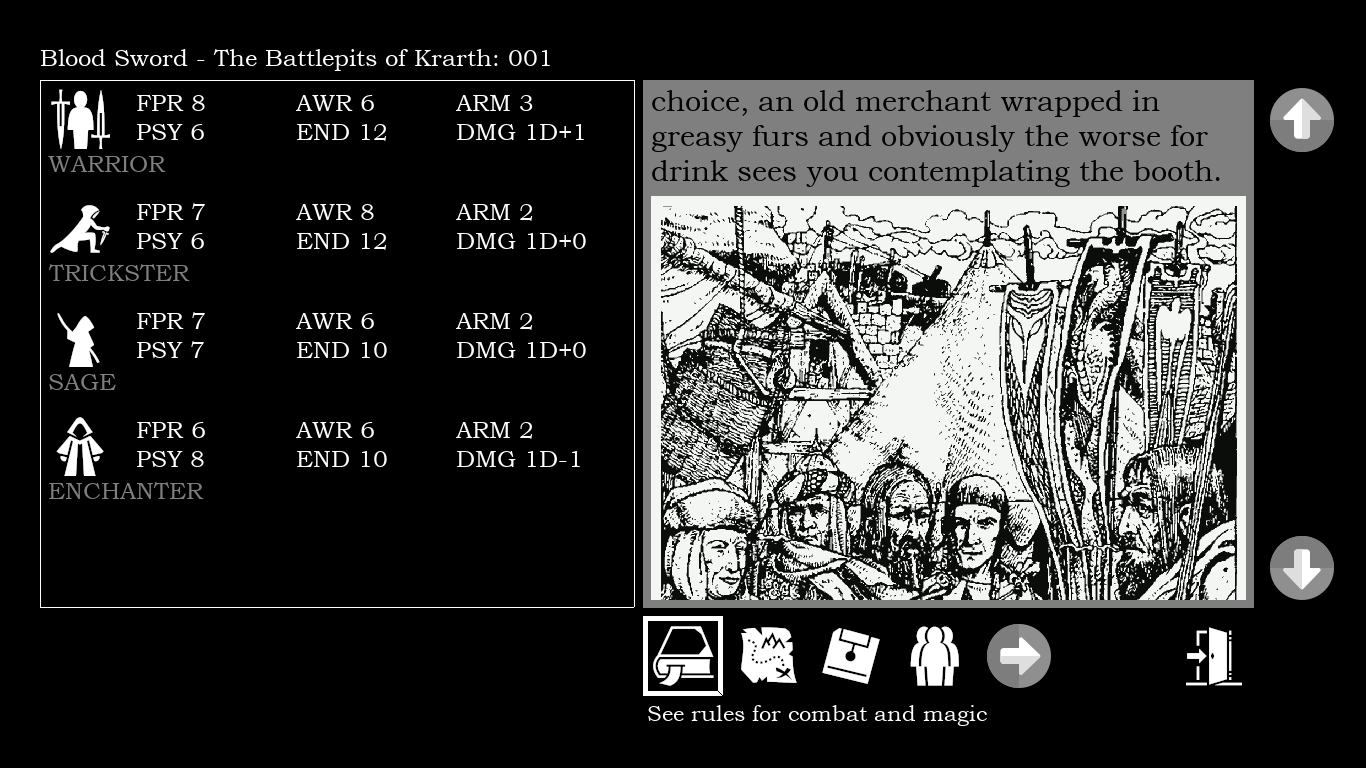
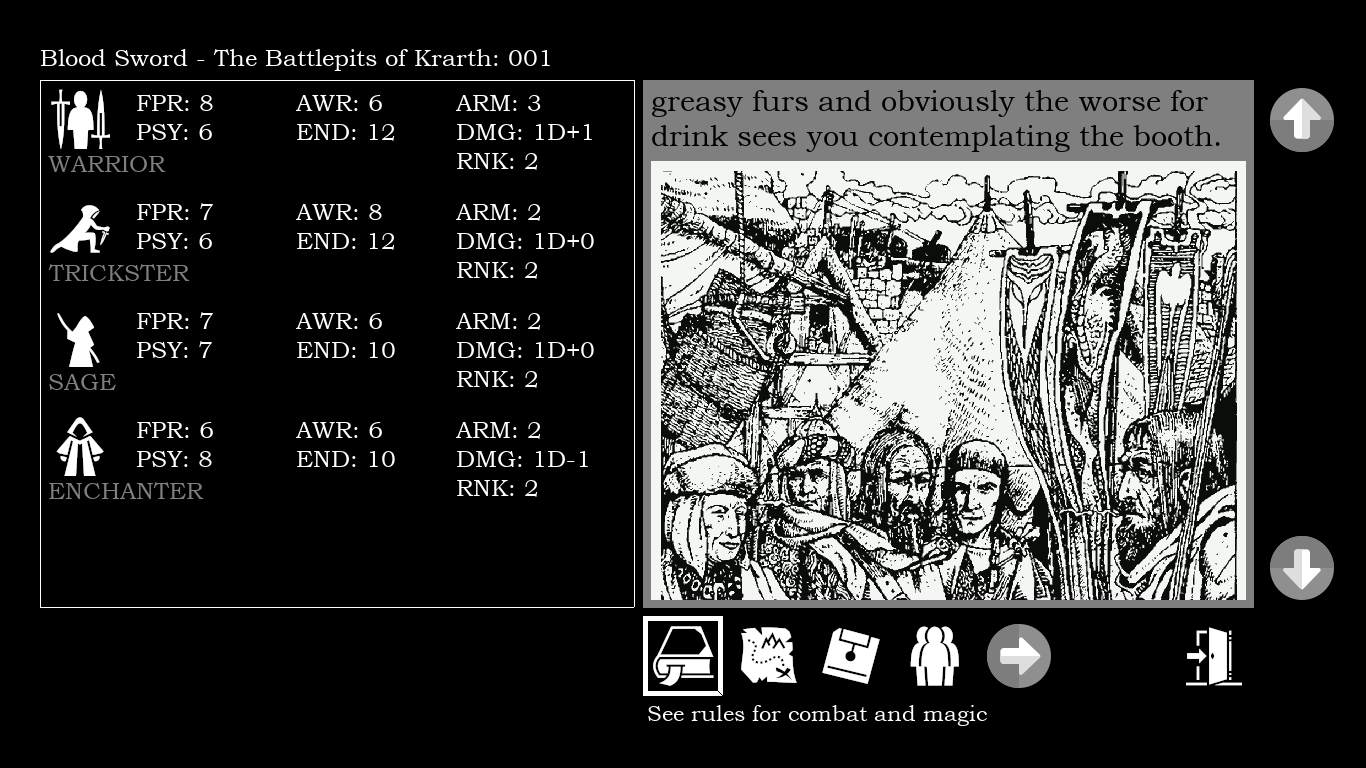
added character rank

diff --git a/src/interface.hpp b/src/interface.hpp
@@ -4665,12 +4665,13 @@ namespace Interface
 
             Graphics::RenderImage(Renderer, Assets::Get(Party.Members[i].Asset), Screen.InfoBoxX + text_space, Screen.InfoBoxY + i * (Screen.IconSize + FontSize) + text_space);
             Graphics::PutText(Renderer, Character::Description[Party.Members[i].Class], Fonts::Normal, 0, clrGR, intBK, TTF_STYLE_NORMAL, Screen.InfoBoxX + text_space, Screen.InfoBoxX + (i + 1) * (Screen.IconSize + FontSize));
-            Graphics::PutText(Renderer, ("FPR " + std::to_string(FightingProwess)).c_str(), Fonts::Normal, 0, clrWH, intBK, TTF_STYLE_NORMAL, Screen.InfoBoxX + Screen.IconSize + 2 * text_space, Screen.InfoBoxY + i * (Screen.IconSize + FontSize) + text_space);
-            Graphics::PutText(Renderer, ("AWR " + std::to_string(Awareness)).c_str(), Fonts::Normal, 0, clrWH, intBK, TTF_STYLE_NORMAL, Screen.InfoBoxX + 3 * Screen.IconSize + 2 * text_space, Screen.InfoBoxY + i * (Screen.IconSize + FontSize) + text_space);
-            Graphics::PutText(Renderer, ("PSY " + std::to_string(PsychicAbility)).c_str(), Fonts::Normal, 0, clrWH, intBK, TTF_STYLE_NORMAL, Screen.InfoBoxX + Screen.IconSize + 2 * text_space, Screen.InfoBoxY + i * (Screen.IconSize + FontSize) + FontSize + text_space);
-            Graphics::PutText(Renderer, ("END " + std::to_string(Endurance)).c_str(), Fonts::Normal, 0, clrWH, intBK, TTF_STYLE_NORMAL, Screen.InfoBoxX + 3 * Screen.IconSize + 2 * text_space, Screen.InfoBoxY + i * (Screen.IconSize + FontSize) + FontSize + text_space);
-            Graphics::PutText(Renderer, ("ARM " + std::to_string(Armour)).c_str(), Fonts::Normal, 0, clrWH, intBK, TTF_STYLE_NORMAL, Screen.InfoBoxX + 5 * Screen.IconSize + 2 * text_space, Screen.InfoBoxY + i * (Screen.IconSize + FontSize) + text_space);
-            Graphics::PutText(Renderer, ("DMG " + (std::to_string(Damage) + "D" + (DamageModifier < 0 ? "" : "+") + std::to_string(DamageModifier))).c_str(), Fonts::Normal, 0, clrWH, intBK, TTF_STYLE_NORMAL, Screen.InfoBoxX + 5 * Screen.IconSize + 2 * text_space, Screen.InfoBoxY + i * (Screen.IconSize + FontSize) + FontSize + text_space);
+            Graphics::PutText(Renderer, ("FPR: " + std::to_string(FightingProwess)).c_str(), Fonts::Normal, 0, clrWH, intBK, TTF_STYLE_NORMAL, Screen.InfoBoxX + Screen.IconSize + 2 * text_space, Screen.InfoBoxY + i * (Screen.IconSize + FontSize) + text_space);
+            Graphics::PutText(Renderer, ("AWR: " + std::to_string(Awareness)).c_str(), Fonts::Normal, 0, clrWH, intBK, TTF_STYLE_NORMAL, Screen.InfoBoxX + 3 * Screen.IconSize + 2 * text_space, Screen.InfoBoxY + i * (Screen.IconSize + FontSize) + text_space);
+            Graphics::PutText(Renderer, ("PSY: " + std::to_string(PsychicAbility)).c_str(), Fonts::Normal, 0, clrWH, intBK, TTF_STYLE_NORMAL, Screen.InfoBoxX + Screen.IconSize + 2 * text_space, Screen.InfoBoxY + i * (Screen.IconSize + FontSize) + FontSize + text_space);
+            Graphics::PutText(Renderer, ("END: " + std::to_string(Endurance)).c_str(), Fonts::Normal, 0, clrWH, intBK, TTF_STYLE_NORMAL, Screen.InfoBoxX + 3 * Screen.IconSize + 2 * text_space, Screen.InfoBoxY + i * (Screen.IconSize + FontSize) + FontSize + text_space);
+            Graphics::PutText(Renderer, ("ARM: " + std::to_string(Armour)).c_str(), Fonts::Normal, 0, clrWH, intBK, TTF_STYLE_NORMAL, Screen.InfoBoxX + 5 * Screen.IconSize + 2 * text_space, Screen.InfoBoxY + i * (Screen.IconSize + FontSize) + text_space);
+            Graphics::PutText(Renderer, ("DMG: " + (std::to_string(Damage) + "D" + (DamageModifier < 0 ? "" : "+") + std::to_string(DamageModifier))).c_str(), Fonts::Normal, 0, clrWH, intBK, TTF_STYLE_NORMAL, Screen.InfoBoxX + 5 * Screen.IconSize + 2 * text_space, Screen.InfoBoxY + i * (Screen.IconSize + FontSize) + FontSize + text_space);
+            Graphics::PutText(Renderer, ("RNK: " + std::to_string(Party.Members[i].Rank)).c_str(), Fonts::Normal, 0, clrWH, intBK, TTF_STYLE_NORMAL, Screen.InfoBoxX + 5 * Screen.IconSize + 2 * text_space, Screen.InfoBoxY + i * (Screen.IconSize + FontSize) + 2 * FontSize + text_space);
         }
 
         // stats/info box
